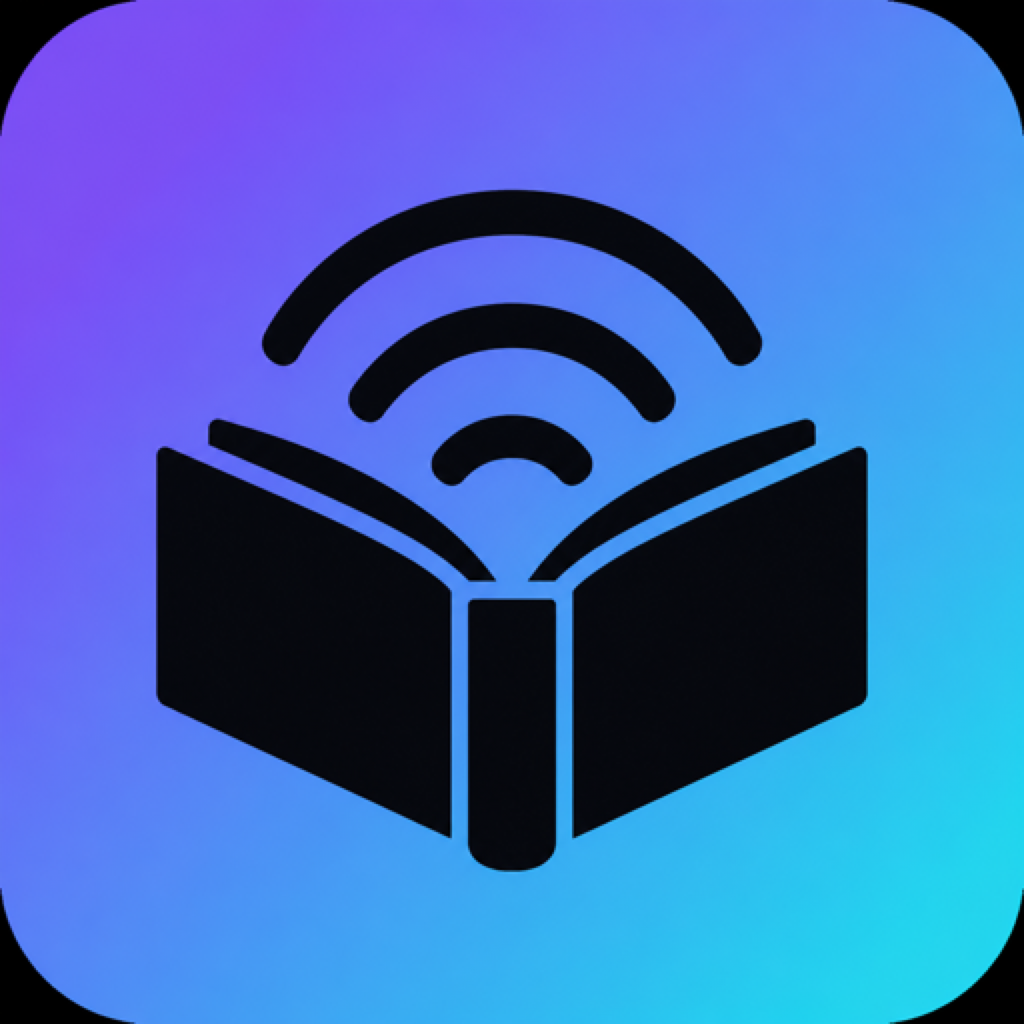
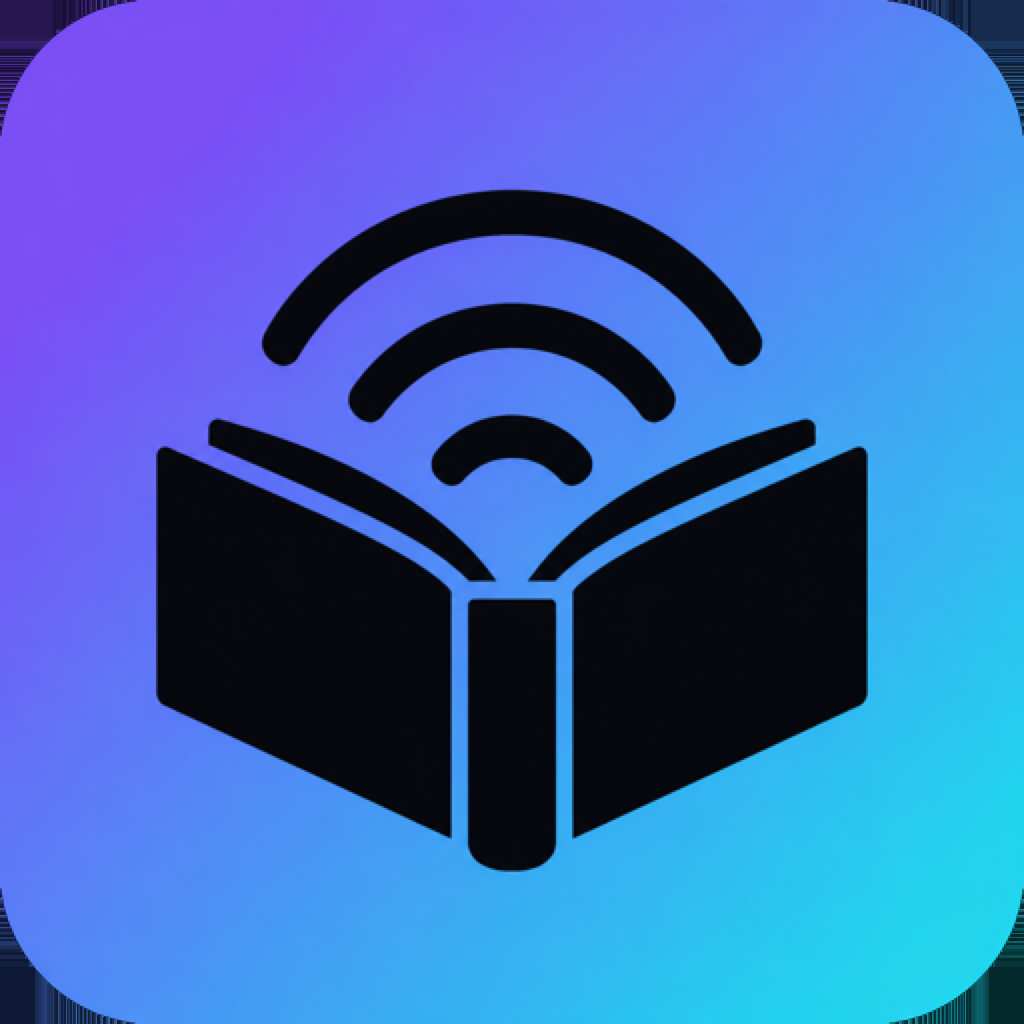
Prepare SpeakFiction Notes for App Store and Play submission.

diff --git a/companion/README.md b/companion/README.md
@@ -23,3 +23,51 @@ npm run start:tunnel
 ```
 
 Enter `exps://<subdomain>-anonymous-8081.exp.direct:443` (HTTPS). Do not use `exp://…:80` — iOS blocks that HTTP load. Notes still go to `https://www.readywriter.one` unless `EXPO_PUBLIC_NOTES_URL` is set. The tunnel only works while Metro is running on this computer.
+
+## App Store and Google Play
+
+The companion is an Expo app. Store binaries are EAS **production** builds (AAB on Play, IPA on App Store). Development client builds stay on the `development` profile.
+
+Privacy policy (required by both stores):
+
+`https://www.readywriter.one/sidequests/speakfiction/privacy`
+
+Support / marketing URL:
+
+`https://www.readywriter.one/sidequests/speakfiction`
+
+### One-time accounts
+
+1. **Expo** — `npm i -g eas-cli` then `eas login`. From `companion/`, `eas init` writes `extra.eas.projectId` into `app.json`.
+2. **Apple** — App Store Connect app named **SpeakFiction Notes**, bundle ID `one.readywriter.speakfiction.companion`, team `AM3TB889SG`. Category: Productivity. Age: 12+ (infrequent mild/mature themes in the writer’s own fiction, not in the app). Encryption: only standard HTTPS plus on-device AES for the notes inbox (exempt). Paste the privacy URL. Screenshots: 6.7" iPhone and 13" iPad, portrait, from a real take.
+3. **Google** — Play Console app, package `one.readywriter.speakfiction.companion`, default language English. Form factor phone. Data safety: no ads, no advertising ID, microphone and camera used in-app, user content (encrypted notes) optional, data encrypted in transit. Upload the privacy URL. Internal testing track first.
+
+### Build and submit
+
+```bash
+cd companion
+node scripts/prepare-store-icons.cjs   # once, if icons still have black corners
+npx eas-cli build --profile production --platform all
+npx eas-cli submit --profile production --platform ios
+npx eas-cli submit --profile production --platform android
+```
+
+Apple submit uses the existing App Store Connect API key (same team as desktop notarization). Play submit needs a Google service account JSON in EAS credentials (`eas credentials -p android`). First Android upload can also be a manual AAB to the internal track.
+
+### Store listing copy
+
+**Name:** SpeakFiction Notes
+
+**Subtitle:** Voice notes for your novel
+
+**Description:**
+SpeakFiction Notes is the free phone companion for SpeakFiction on Mac and Windows. Record a take on the phone. Speech becomes text here. The desktop app shapes the book.
+
+Scan the QR code on your computer, or paste your SF- license key. Notes sync as encrypted text through your SpeakFiction account. Audio stays on this phone unless you attach it. This app does not use one of the three Polar desktop seats.
+
+On-device speech recognition when the phone has it. No hosted transcriber. No ads.
+
+Requires SpeakFiction on the computer (15-day trial, then a one-time license).
+
+**Keywords (iOS):** dictation,writer,fiction,novel,notes,voice,scrivener,manuscript
+
